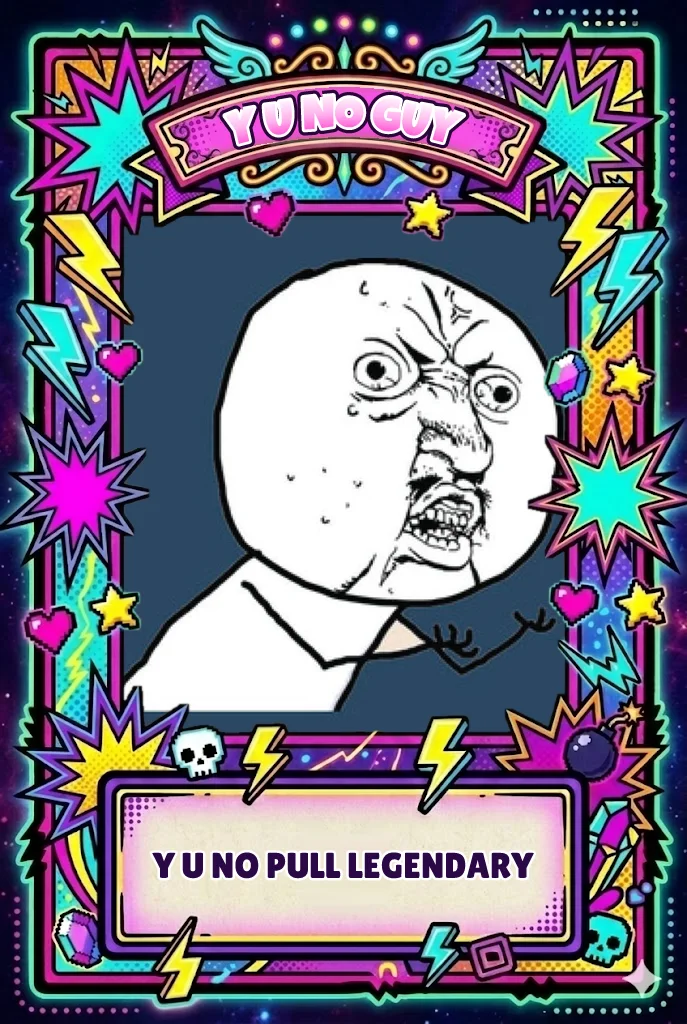
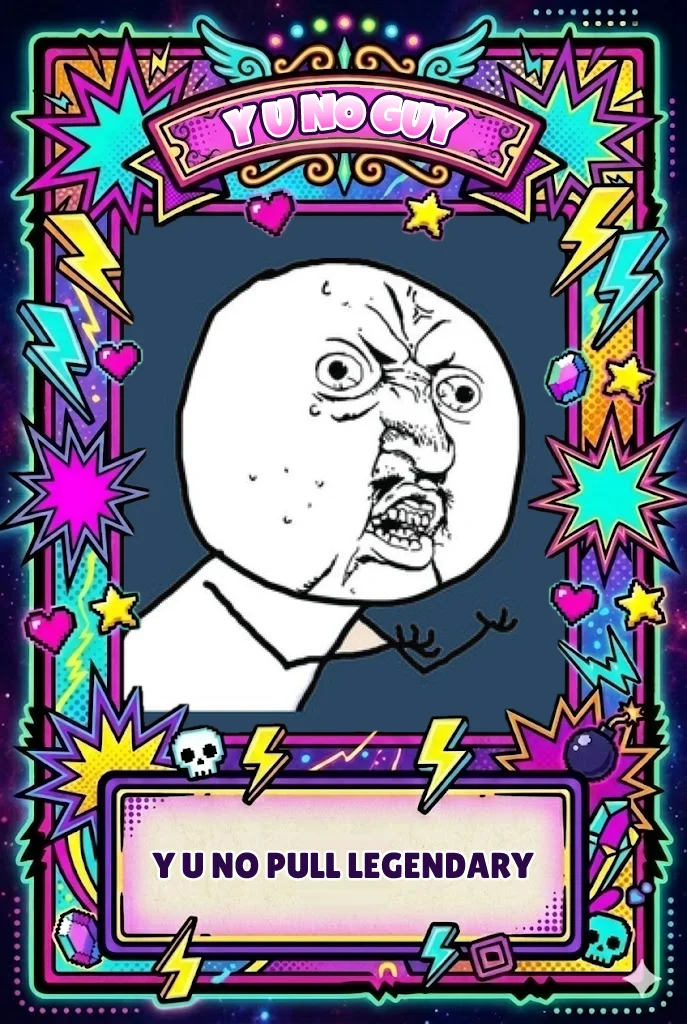
Web Ancients (2007–2012): real meme images, registered as a draft
12 real memes: Ceiling Cat, Keyboard Cat, Y U NO Guy, Planking, Dramatic
Chipmunk, Longcat, Arrow to the Knee, Philosoraptor, Gangnam Style,
Trollface, Nyan Cat and Rickroll (rarest).

- 7 cards use the canonical meme image pulled from the web (sources and
  owners in CREDITS.md)
- 5 keep a placeholder until a Gemini lookalike is made (prompts in
  PROMPTS.md): Keyboard Cat, Trollface, Nyan Cat and Rickroll because
  their owners actively enforce (lawsuits/takedowns), and Planking
  because every known photo shows a private person
- draft: hidden unless Settings > Preview upcoming sets; locked as
  web-ancients@1

Refs #6

Claude-Session: https://claude.ai/code/session_019EguSi8fJWokM3LRyjoEkU

Changed region(s): [[0.1528, 0.25, 0.8253, 0.7188]]

diff --git a/src/content/sets/index.ts b/src/content/sets/index.ts
@@ -9,9 +9,10 @@
  */
 import { setKey, validateSet, type CardDefinition, type SetDefinition } from '../../engine';
 import genesis from './genesis/set.json';
+import webAncients from './web-ancients/set.json';
 
 /** Every version of every set. Display order = timeline order (Genesis first). */
-export const ALL_SET_VERSIONS: SetDefinition[] = [genesis].map((s) => validateSet(s));
+export const ALL_SET_VERSIONS: SetDefinition[] = [genesis, webAncients].map((s) => validateSet(s));
 
 const byKey = new Map(ALL_SET_VERSIONS.map((s) => [setKey(s), s]));
 if (byKey.size !== ALL_SET_VERSIONS.length) throw new Error('Duplicate set@version in registry');

diff --git a/src/content/sets/web-ancients/PROMPTS.md b/src/content/sets/web-ancients/PROMPTS.md
@@ -1,6 +1,6 @@
 # Web Ancients (2007–2012): art prompts
 
-Generated by `npm run prompts`. **12 of 12 cards still need a real image.**
+Generated by `npm run prompts`. **5 of 12 cards still need a real image.**
 
 ## How to use (free, Gemini app)
 
@@ -24,87 +24,87 @@ Reply "ready" and wait for the first brief.
 
 | Card id | Name | Rarity | Art |
 | --- | --- | --- | --- |
-| `ceiling-cat` | Ceiling Cat | COMMON | 🟡 placeholder |
-| `keyboard-kitty` | Keyboard Kitty | COMMON | 🟡 placeholder |
-| `y-u-no-yeti` | Y U NO Yeti | COMMON | 🟡 placeholder |
-| `planking-plank` | Planking Plank | COMMON | 🟡 placeholder |
-| `dramatic-prairie-dog` | Dramatic Prairie Dog | UNCOMMON | 🟡 placeholder |
-| `longcat` | Longcat | UNCOMMON | 🟡 placeholder |
-| `arrow-knee-guard` | Knee Arrow Guard | UNCOMMON | 🟡 placeholder |
-| `philosoraptor` | Philosoraptor | RARE | 🟡 placeholder |
-| `gallop-style-pony` | Gallop Style Pony | RARE | 🟡 placeholder |
-| `problem-goblin` | Problem Goblin | EPIC | 🟡 placeholder |
-| `nyam-cat` | Nyam Cat | LEGENDARY | 🟡 placeholder |
-| `rickroll-bun` | Rickroll Bun | BRAINROT | 🟡 placeholder |
+| `ceiling-cat` | Ceiling Cat | COMMON | ✅ real image |
+| `keyboard-cat` | Keyboard Cat | COMMON | 🟡 placeholder |
+| `y-u-no-guy` | Y U NO Guy | COMMON | ✅ real image |
+| `planking` | Planking | COMMON | 🟡 placeholder |
+| `dramatic-chipmunk` | Dramatic Chipmunk | UNCOMMON | ✅ real image |
+| `longcat` | Longcat | UNCOMMON | ✅ real image |
+| `arrow-to-the-knee` | Arrow to the Knee | UNCOMMON | ✅ real image |
+| `philosoraptor` | Philosoraptor | RARE | ✅ real image |
+| `gangnam-style` | Gangnam Style | RARE | ✅ real image |
+| `trollface` | Trollface | EPIC | 🟡 placeholder |
+| `nyan-cat` | Nyan Cat | LEGENDARY | 🟡 placeholder |
+| `rickroll` | Rickroll | BRAINROT | 🟡 placeholder |
 
-### Ceiling Cat (`ceiling-cat.png`) 🟡 placeholder
-
-```
-Card: Ceiling Cat (2007). White cat head and two front paws poking down through a jagged round hole in a beige drop ceiling, wide curious eyes, tiny pink nose. Background: simple ceiling-tile grid.
-```
-
-### Keyboard Kitty (`keyboard-kitty.png`) 🟡 placeholder
+### Ceiling Cat (`ceiling-cat.png`) ✅ real image
 
 ```
-Card: Keyboard Kitty (2009). Gray tabby cat in a red-and-white striped T-shirt, paws on a chunky retro synth keyboard, deadpan half-lidded stare, music notes floating up. Background: teal with a stage-curtain edge.
+Card: Ceiling Cat (2007). Ginger-and-white cat head poking down through a ragged square hole in a plain gray ceiling, wide round eyes staring straight at the viewer, whiskers dangling. Background: smooth gray ceiling fading darker.
 ```
 
-### Y U NO Yeti (`y-u-no-yeti.png`) 🟡 placeholder
+### Keyboard Cat (`keyboard-cat.png`) 🟡 placeholder
 
 ```
-Card: Y U NO Yeti (2010). Shaggy white yeti with both arms thrown up in exasperation, huge oval screaming mouth, simple black-line rage-comic eyes. Background: white comic panel with a thick black border.
+Card: Keyboard Cat (2009). Ginger-and-white tabby cat in a light blue T-shirt sitting upright behind a vintage electric keyboard, front paws on the keys, deadpan stare at the viewer. Background: plain beige living-room wall, warm 1980s home-video look.
 ```
 
-### Planking Plank (`planking-plank.png`) 🟡 placeholder
+### Y U NO Guy (`y-u-no-guy.png`) ✅ real image
 
 ```
-Card: Planking Plank (2011). A wooden plank with a tiny smug face lying perfectly stiff across the top of a fridge, arms glued to its sides. Background: kitchen wall with a simple window.
+Card: Y U NO Guy (2010). Black-and-white rage-comic drawing: huge round white head with furious bulging eyes, gritted teeth and a scrunched nose, small body in a white shirt throwing both hands up in exasperation. Background: dark blue.
 ```
 
-### Dramatic Prairie Dog (`dramatic-prairie-dog.png`) 🟡 placeholder
+### Planking (`planking.png`) 🟡 placeholder
 
 ```
-Card: Dramatic Prairie Dog (2007). Tan prairie dog snapping its head toward the viewer, eyes huge and intense, three motion lines by its head, dramatic purple spotlight cone. Background: near-black.
+Card: Planking (2011). A faceless person in a green T-shirt and jeans lying perfectly stiff, face-down, across the top of a stack of red and blue storage crates on a store shelf, arms pinned to their sides, face hidden. Background: pegboard store wall.
 ```
 
-### Longcat (`longcat.png`) 🟡 placeholder
+### Dramatic Chipmunk (`dramatic-chipmunk.png`) ✅ real image
 
 ```
-Card: Longcat (2007). An absurdly tall, skinny white cat stretched vertically across the whole card, front paws dangling at the top, back paws at the bottom, sleepy content face. Background: sky blue with tiny clouds for scale.
+Card: Dramatic Chipmunk (2007). Extreme close-up of a tan prairie dog that has just whipped its head toward the camera, one beady dark eye, nose in profile, fur slightly blurred like a zoomed TV frame. Background: blue studio sky.
 ```
 
-### Knee Arrow Guard (`arrow-knee-guard.png`) 🟡 placeholder
+### Longcat (`longcat.png`) ✅ real image
 
 ```
-Card: Knee Arrow Guard (2011). Chunky cartoon town guard in a round helmet and plain tabard sitting on a crate, sheepishly pointing at a cartoon arrow stuck in his bandaged knee. Background: gray stone wall.
+Card: Longcat (2007). A white cat held up under the front legs by a pair of hands, front paws reaching out to the sides, body stretching impossibly far down past the bottom of the frame, calm face. Background: wood-panel wall.
 ```
 
-### Philosoraptor (`philosoraptor.png`) 🟡 placeholder
+### Arrow to the Knee (`arrow-to-the-knee.png`) ✅ real image
 
 ```
-Card: Philosoraptor (2008). Green velociraptor with one claw on its chin, eyes rolled up in deep thought, a single thought bubble with a question mark. Background: mustard yellow.
+Card: Arrow to the Knee (2011). Fantasy town guard in a full-face iron helmet with a nose guard, mustard-yellow tabard over chainmail, round wooden shield, standing in a cobbled medieval town. Background: stone wall and timber house.
 ```
 
-### Gallop Style Pony (`gallop-style-pony.png`) 🟡 placeholder
+### Philosoraptor (`philosoraptor.png`) ✅ real image
 
 ```
-Card: Gallop Style Pony (2012). Chubby brown pony in tiny black sunglasses and a blue tux jacket doing the invisible-rider dance: knees bent, one hoof circling an imaginary lasso. Background: disco floor tiles and spotlights.
+Card: Philosoraptor (2008). Green velociraptor head in profile drawn in heavy black ink, one claw raised to its chin, eyes narrowed in deep thought. Background: two-tone green diagonal split.
 ```
 
-### Problem Goblin (`problem-goblin.png`) 🟡 placeholder
+### Gangnam Style (`gangnam-style.png`) ✅ real image
 
 ```
-Card: Problem Goblin (2008). Lanky green goblin face with an enormous wraparound grin of square teeth, scrunched mischievous eyes, raised brows, hands rubbing together. Background: dark charcoal.
+Card: Gangnam Style (2012). Cartoon of a round-faced singer in black sunglasses and a black suit doing the invisible-horse dance, wrists crossed in front of his chest, knees bent. Background: cartoon horse stable with tiled floor.
 ```
 
-### Nyam Cat (`nyam-cat.png`) 🟡 placeholder
+### Trollface (`trollface.png`) 🟡 placeholder
 
 ```
-Card: Nyam Cat (2011). Chunky pixel-style gray cat whose body is a square golden waffle with syrup dots, flying right, six-stripe rainbow trail behind, twinkling stars. Background: navy space.
+Card: Trollface (2008). Original black-and-white MS Paint-style line drawing (not a copy) of a wide, smug, lumpy face with an enormous toothy grin stretching ear to ear, squinting mischievous eyes and raised brows. Background: plain white.
 ```
 
-### Rickroll Bun (`rickroll-bun.png`) 🟡 placeholder
+### Nyan Cat (`nyan-cat.png`) 🟡 placeholder
 
 ```
-Card: Rickroll Bun (2007). Round golden bread roll with a tall swoopy pompadour, wearing a beige trench coat, doing an awkward side-step dance with fists pumping. Background: hyperlink blue with a giant mouse cursor.
+Card: Nyan Cat (2011). Pixel-art gray cat with a rectangular pink-frosted toaster-pastry body with sprinkles, flying to the right, six-stripe rainbow trail behind, twinkling pixel stars. Background: dark navy space.
+```
+
+### Rickroll (`rickroll.png`) 🟡 placeholder
+
+```
+Card: Rickroll (2007). Faceless figure seen in silhouette with a tall swoopy ginger pompadour, oversized beige trench coat over a black turtleneck, mid side-step dance with fists pumping, no face visible. Background: foggy late-80s music-video set with a brick wall.
 ```

diff --git a/src/content/sets/web-ancients/CREDITS.md b/src/content/sets/web-ancients/CREDITS.md
@@ -1,0 +1,28 @@
+# Web Ancients: image credits
+
+Real meme images used for card art. Each was downloaded once, checked with Pillow, re-encoded to PNG
+(which strips metadata) and cropped to the art window's 6:7 portrait shape. The frame, title and caption
+are added by code. All rights stay with the owners listed below. The set is still a draft.
+
+| Card | Source page | Image URL | Creator / owner | Notes |
+| --- | --- | --- | --- | --- |
+| Ceiling Cat (`ceiling-cat`) | https://knowyourmeme.com/photos/1248930-ceiling-cat (entry: https://knowyourmeme.com/memes/ceiling-cat) | https://i.kym-cdn.com/photos/images/original/001/248/930/07e.jpg | Unknown photographer; first posted to FunnyJunk as "Stalker Kitty" (2003) | The text-free version of the photo. KYM's header copy has an NSFW caption, so I didn't use it. The source is only 640×480 and soft. |
+| Y U NO Guy (`y-u-no-guy`) | https://knowyourmeme.com/memes/y-u-no-guy | https://i.kym-cdn.com/entries/icons/original/000/004/006/YUNO.jpg | Anonymous rage-comic artist; KYM says the face is believed to be traced from the manga *Gantz* (ch. 55) | KYM's main image, with no text. |
+| Dramatic Chipmunk (`dramatic-chipmunk`) | https://knowyourmeme.com/photos/465629-dramatic-chipmunk (entry: https://knowyourmeme.com/memes/dramatic-chipmunk) | https://i.kym-cdn.com/photos/images/original/000/465/629/394.png | Still from the Japanese variety show *Hello! Morning* (Mini Moni segment); clip posted to YouTube by magnets99 in 2007 | This is the same head-turn frame as KYM's header, in a larger copy. I cropped inside its poster border, which removes the "DRAMATIC CHIPMUNK" text. The 2007 SD footage is blurry, so this card can't get sharper. |
+| Longcat (`longcat`) | https://knowyourmeme.com/photos/2110-longcat (entry: https://knowyourmeme.com/memes/longcat) | https://i.kym-cdn.com/photos/images/original/000/002/110/longcat.jpg | The cat is Shiro (owner: Miiko, @miyabi_2222); photo first posted anonymously on 2chan, c. 2005 | The original photo. The source is 354×640, below the 400 px target, and nothing larger turned up. The crop runs off the bottom on purpose ("never seems to end"). The racing poster and banner text are part of the original photo. |
+| Arrow to the Knee (`arrow-to-the-knee`) | https://elderscrolls.fandom.com/wiki/File:Whiterun_Hold_Guard_Skyrim.png | https://static.wikia.nocookie.net/elderscrolls/images/c/c0/Whiterun_Hold_Guard_Skyrim.png/revision/latest?cb=20141014115402 | *The Elder Scrolls V: Skyrim* © Bethesda Softworks; in-game screenshot uploaded to the Elder Scrolls Wiki (2014) | A Whiterun guard, the NPC who says the line. KYM's header (https://i.kym-cdn.com/entries/icons/original/000/007/760/ArrowInTheKnee.jpg) has caption text and is low-res, so I used this clean screenshot. |
+| Philosoraptor (`philosoraptor`) | https://knowyourmeme.com/photos/85283 (entry: https://knowyourmeme.com/memes/philosoraptor) | https://i.kym-cdn.com/photos/images/original/000/085/283/philosoraptor.jpg | Sam Smith, 2008 T-shirt design for Lonely Dinosaur | KYM's blank template. KYM reports the creator put the art under a Creative Commons non-commercial licence and is fine with meme use. Recheck before any commercial use. |
+| Gangnam Style (`gangnam-style`) | https://knowyourmeme.com/memes/gangnam-style | https://i.kym-cdn.com/entries/icons/original/000/010/964/gangnamstyle.jpg | PSY / YG Entertainment: the official "Gangnam Style" cover art (also the YouTube thumbnail and Wikipedia's infobox image) | The cartoon PSY doing the horse dance. Cropped to him, which removes the "GANGNAM STYLE" logo and the Korean sign text. I rejected the CC photos on Commons: one shows PSY only on a video screen, the other includes backup dancers and the crowd. |
+
+## Needs a Gemini lookalike
+
+These cards keep their SVG placeholder. Their `art` brief in `set.json` describes the lookalike to make
+(see `PROMPTS.md`). None of them has a downloaded image.
+
+| Card | Why it was skipped |
+| --- | --- |
+| Keyboard Cat (`keyboard-cat`) | The owner's list says to skip it. Creator Charlie Schmidt licenses the character and sued Warner Bros. and 5th Cell over its use in *Scribblenauts* (2013). |
+| Planking (`planking`) | Every well-known planking photo (KYM's header, the Wikipedia and Commons photos) shows a private individual. The one public-figure image is rugby player David "Wolfman" Williams' 2011 try celebration (https://i.kym-cdn.com/photos/images/original/000/126/842/Wolfman-Plank1.jpg). It's a 650×366 landscape press photo, and a 6:7 portrait crop would cut him in half. The brief asks for a faceless planker. |
+| Trollface (`trollface`) | The owner's list says to skip it. Creator Carlos Ramirez registered the copyright and enforces it; for example, the game *Meme Run* was pulled from the Wii U eShop in 2015 after his claim. |
+| Nyan Cat (`nyan-cat`) | The owner's list says to skip it. Creator Chris Torres joined the 2013 *Scribblenauts* lawsuit against Warner Bros. and licenses the character. |
+| Rickroll (`rickroll`) | The owner's list says to skip it. The meme is a real person, Rick Astley, who has enforced his likeness (in 2023 he sued Yung Gravy over an imitation of his voice). The brief is a faceless silhouette. |
